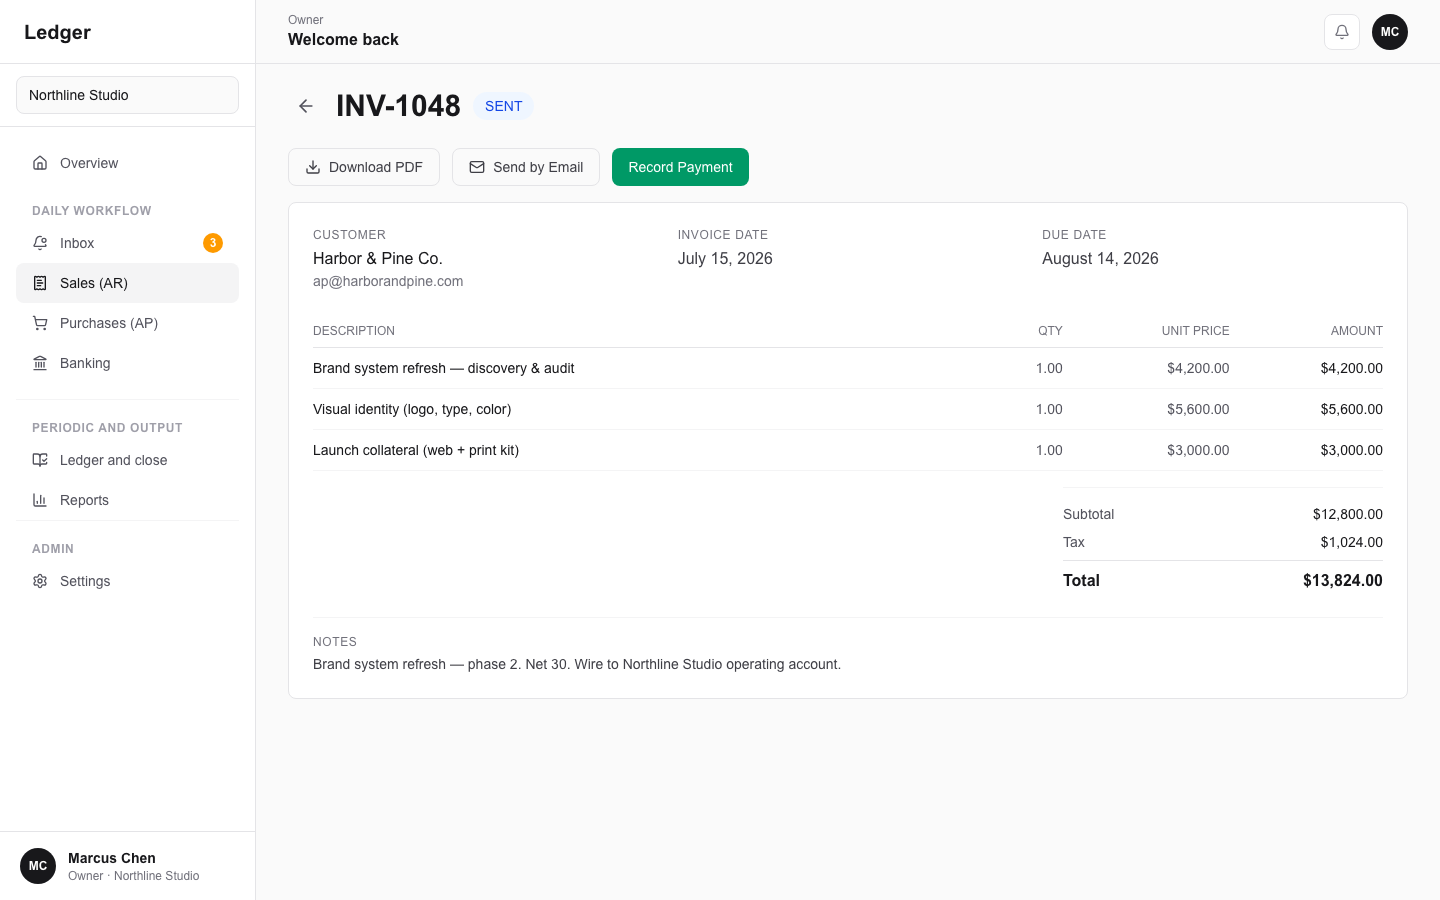
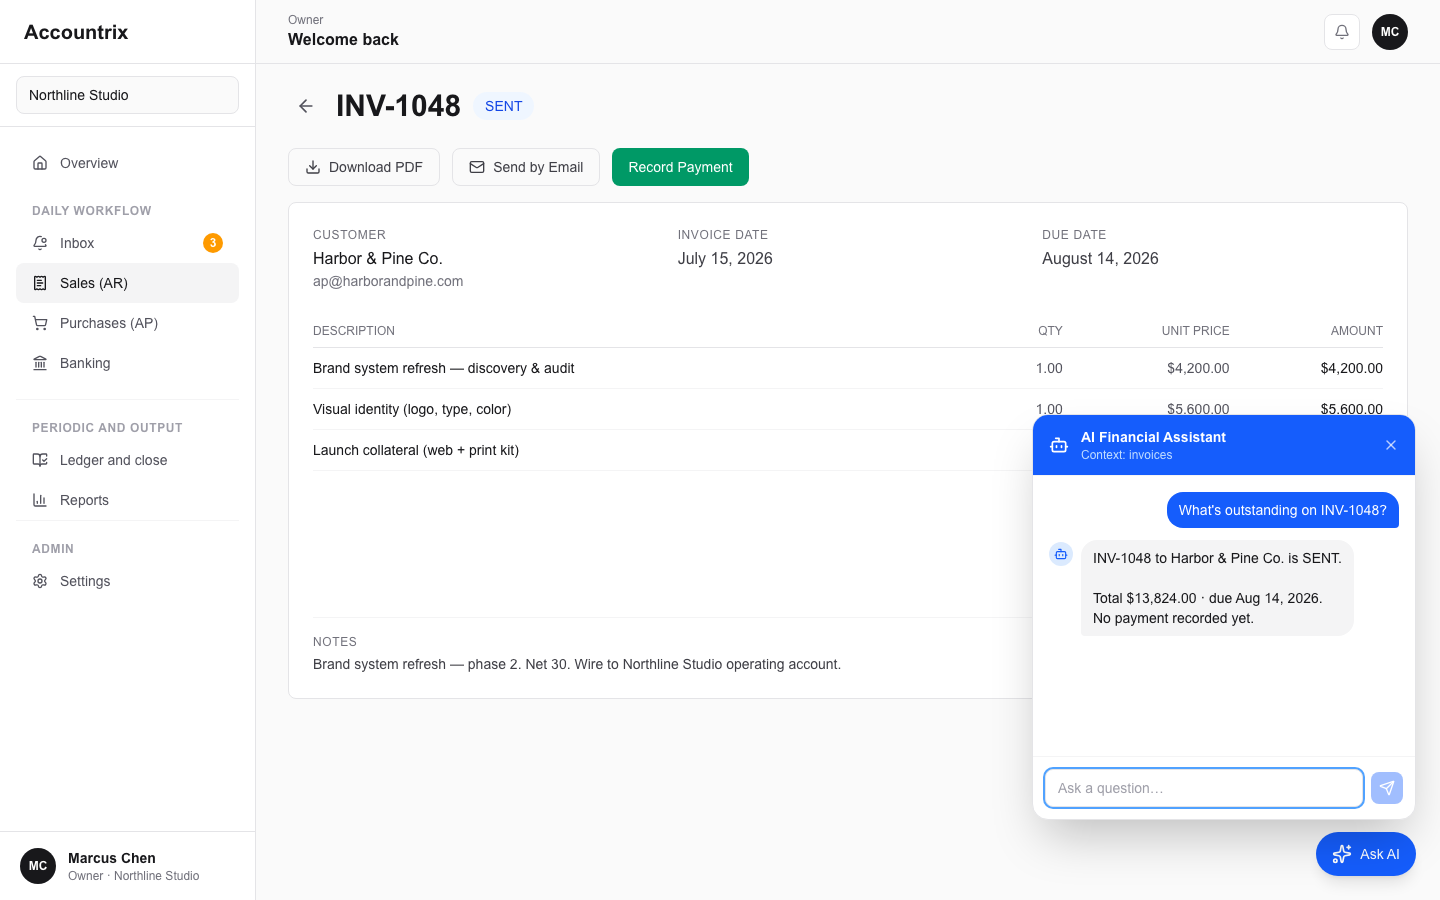
Fix Vercel build and align portfolio branding with Accountrix.
Wrap invite and login search-param usage in Suspense so static generation succeeds, rebrand the app to Accountrix, and show the AI assistant on portfolio preview routes with updated screenshots.

Changed region(s): [[0.7188, 0.4356, 1.0, 0.7156], [0.7188, 0.84, 1.0, 0.9956], [0.0, 0.0311, 0.0938, 0.0622]]

diff --git a/client/app/components/AIChatPanel.tsx b/client/app/components/AIChatPanel.tsx
@@ -5,7 +5,8 @@ import { usePathname } from 'next/navigation';
 import { Bot, Send, X, Loader2, Sparkles } from 'lucide-react';
 import { sendAiMessage } from '@/lib/api';
 import { isAuthenticated } from '@/lib/auth';
-import { hideAppChrome } from '@/lib/public-paths';
+import { hideLiveAiChat, isPreviewPath } from '@/lib/public-paths';
+import { portfolioAiThread } from '@/lib/portfolio-demo-data';
 
 interface Message {
   role: 'user' | 'assistant';
@@ -19,14 +20,28 @@ const SUGGESTIONS = [
   'Am I spending more than last month?',
 ];
 
+function contextLabel(pathname: string): string {
+  if (pathname === '/reports-preview') return 'reports';
+  if (pathname.startsWith('/portfolio-preview/inbox')) return 'inbox';
+  if (pathname.startsWith('/portfolio-preview/invoice')) return 'invoices';
+  return pathname.split('/')[1] || 'overview';
+}
+
 export function AIChatPanel() {
   const pathname = usePathname();
-  const [open, setOpen] = useState(false);
-  const [messages, setMessages] = useState<Message[]>([]);
+  const demo = pathname ? portfolioAiThread(pathname) : null;
+  const [open, setOpen] = useState(Boolean(demo));
+  const [messages, setMessages] = useState<Message[]>(demo?.messages ?? []);
   const [input, setInput] = useState('');
   const [loading, setLoading] = useState(false);
   const bottomRef = useRef<HTMLDivElement>(null);
   const inputRef = useRef<HTMLInputElement>(null);
+
+  useEffect(() => {
+    const next = portfolioAiThread(pathname);
+    setOpen(Boolean(next));
+    setMessages(next?.messages ?? []);
+  }, [pathname]);
 
   useEffect(() => {
     if (open) {
@@ -42,8 +57,15 @@ export function AIChatPanel() {
     setMessages((prev) => [...prev, { role: 'user', content: msg }]);
     setLoading(true);
     try {
+      if (isPreviewPath(pathname)) {
+        setMessages((prev) => [
+          ...prev,
+          { role: 'assistant', content: 'This is a demo workspace. Sign in to ask about live books.' },
+        ]);
+        return;
+      }
       const { reply } = await sendAiMessage(msg, {
-        tab: pathname.split('/')[1] || 'overview',
+        tab: contextLabel(pathname),
         item: pathname,
       });
       setMessages((prev) => [...prev, { role: 'assistant', content: reply }]);
@@ -62,7 +84,7 @@ export function AIChatPanel() {
     }
   }
 
-  if (hideAppChrome(pathname, isAuthenticated())) return null;
+  if (hideLiveAiChat(pathname) || (!isAuthenticated() && !isPreviewPath(pathname))) return null;
 
   return (
     <>
@@ -84,7 +106,7 @@ export function AIChatPanel() {
             <Bot className="h-5 w-5 text-white" />
             <div className="flex-1">
               <p className="text-sm font-semibold text-white">AI Financial Assistant</p>
-              <p className="text-xs text-blue-200">Context: {pathname.split('/')[1] || 'overview'}</p>
+              <p className="text-xs text-blue-200">Context: {contextLabel(pathname)}</p>
             </div>
             <button onClick={() => setOpen(false)} className="text-white/70 hover:text-white" aria-label="Close AI panel">
               <X className="h-4 w-4" />

diff --git a/client/app/invite/page.tsx b/client/app/invite/page.tsx
@@ -1,7 +1,7 @@
 'use client';
 
-import { useEffect, useState } from 'react';
-import { useRouter, useSearchParams } from 'next/navigation';
+import { Suspense, useEffect, useState } from 'react';
+import { useSearchParams } from 'next/navigation';
 import Link from 'next/link';
 import { Loader2, CheckCircle, XCircle } from 'lucide-react';
 import { acceptWorkspaceInvite, fetchWorkspaces } from '@/lib/api';
@@ -9,8 +9,7 @@ import { isAuthenticated, setWorkspaceId } from '@/lib/auth';
 
 type State = 'loading' | 'needs_login' | 'accepting' | 'success' | 'error';
 
-export default function InvitePage() {
-  const router = useRouter();
+function InvitePageContent() {
   const searchParams = useSearchParams();
   const token = searchParams.get('token') ?? '';
 
@@ -32,7 +31,6 @@ export default function InvitePage() {
     setState('accepting');
     acceptWorkspaceInvite(token)
       .then(async () => {
-        // Refresh workspaces and switch to the new one
         try {
           const workspaces = await fetchWorkspaces();
           if (workspaces.length > 0) {
@@ -110,7 +108,6 @@ export default function InvitePage() {
     );
   }
 
-  // error
   return (
     <div className="min-h-screen flex items-center justify-center px-4 bg-zinc-50 dark:bg-zinc-950">
       <div className="w-full max-w-sm bg-white dark:bg-zinc-900 border border-zinc-200 dark:border-zinc-800 rounded-xl p-6 shadow-sm text-center space-y-4">
@@ -122,5 +119,19 @@ export default function InvitePage() {
         </Link>
       </div>
     </div>
+  );
+}
+
+export default function InvitePage() {
+  return (
+    <Suspense
+      fallback={
+        <div className="min-h-screen flex items-center justify-center bg-zinc-50 dark:bg-zinc-950">
+          <Loader2 className="h-6 w-6 animate-spin text-zinc-400" />
+        </div>
+      }
+    >
+      <InvitePageContent />
+    </Suspense>
   );
 }

diff --git a/client/lib/portfolio-demo-data.ts b/client/lib/portfolio-demo-data.ts
@@ -188,3 +188,48 @@ export const PORTFOLIO_INVOICE: Invoice = {
   createdAt: '2026-07-15T16:20:00.000Z',
   updatedAt: '2026-07-16T09:00:00.000Z',
 };
+
+export type PortfolioAiMessage = { role: 'user' | 'assistant'; content: string };
+
+export function portfolioAiThread(pathname: string): { tab: string; messages: PortfolioAiMessage[] } | null {
+  if (pathname === '/reports-preview') {
+    return {
+      tab: 'reports',
+      messages: [
+        { role: 'user', content: 'What was my profit last month?' },
+        {
+          role: 'assistant',
+          content:
+            'Last 30 days at Northline Studio:\n\nRevenue     $88,250\nExpenses    $28,445\nNet income  $59,805\n\nDesign retainers are the largest line at $48,200.',
+        },
+      ],
+    };
+  }
+  if (pathname.startsWith('/portfolio-preview/inbox')) {
+    return {
+      tab: 'inbox',
+      messages: [
+        { role: 'user', content: 'Which receipts still need review?' },
+        {
+          role: 'assistant',
+          content:
+            '3 items are pending:\n\n• WeWork SoHo — $1,200.00 (Office, 96%)\n• Figma — $180.00 (Software, 99%)\n• Delta Air Lines — $486.40 (Travel, 91%)',
+        },
+      ],
+    };
+  }
+  if (pathname.startsWith('/portfolio-preview/invoice')) {
+    return {
+      tab: 'invoices',
+      messages: [
+        { role: 'user', content: "What's outstanding on INV-1048?" },
+        {
+          role: 'assistant',
+          content:
+            'INV-1048 to Harbor & Pine Co. is SENT.\n\nTotal $13,824.00 · due Aug 14, 2026.\nNo payment recorded yet.',
+        },
+      ],
+    };
+  }
+  return null;
+}

diff --git a/client/lib/public-paths.ts b/client/lib/public-paths.ts
@@ -1,15 +1,23 @@
 const AUTH_PUBLIC_PATHS = new Set(['/login', '/signup', '/auth/callback', '/invite']);
 
+export function isPreviewPath(pathname: string): boolean {
+  return pathname === '/reports-preview' || pathname.startsWith('/portfolio-preview');
+}
+
 export function isPublicPath(pathname: string): boolean {
-  if (pathname === '/' || pathname === '/reports-preview') return true;
-  if (pathname.startsWith('/portfolio-preview')) return true;
+  if (pathname === '/' || isPreviewPath(pathname)) return true;
   return AUTH_PUBLIC_PATHS.has(pathname);
 }
 
-/** Hide the live SideNav / profile / AI chrome (preview routes supply their own shell). */
+/** Hide the live SideNav / profile (preview routes supply their own shell). */
 export function hideAppChrome(pathname: string, authenticated: boolean): boolean {
-  if (pathname === '/reports-preview') return true;
-  if (pathname.startsWith('/portfolio-preview')) return true;
+  if (isPreviewPath(pathname)) return true;
   if (pathname === '/' && !authenticated) return true;
+  return AUTH_PUBLIC_PATHS.has(pathname);
+}
+
+/** Hide Ask AI on marketing/auth pages. Preview product shots keep the live chatbot. */
+export function hideLiveAiChat(pathname: string): boolean {
+  if (pathname === '/') return true;
   return AUTH_PUBLIC_PATHS.has(pathname);
 }

diff --git a/client/app/components/MarketingLanding.tsx b/client/app/components/MarketingLanding.tsx
@@ -1,13 +1,12 @@
 import Link from 'next/link';
 import { ArrowRight, BookOpenCheck, Inbox, Landmark, ShieldCheck } from 'lucide-react';
+import { PRODUCT_NAME } from '@/lib/brand';
 
 export function MarketingLanding() {
   return (
     <main className="min-h-dvh bg-zinc-50 text-zinc-950" style={{ colorScheme: 'light' }}>
       <header className="mx-auto flex max-w-7xl items-center justify-between px-6 py-5">
-        <p className="text-xl font-bold tracking-tight">
-          Ledger<span className="text-blue-600">.</span>
-        </p>
+        <p className="text-xl font-bold tracking-tight">{PRODUCT_NAME}</p>
         <div className="flex gap-2">
           <Link href="/login" className="inline-flex h-11 items-center rounded-xl px-4 text-sm font-semibold text-zinc-700 hover:bg-zinc-100">
             Sign in
@@ -55,7 +54,7 @@ export function MarketingLanding() {
 
       <section className="border-y border-zinc-200 bg-white py-14">
         <div className="mx-auto max-w-7xl px-6">
-          <h2 className="text-2xl font-bold">How Ledger works</h2>
+          <h2 className="text-2xl font-bold">How {PRODUCT_NAME} works</h2>
           <div className="mt-7 grid gap-5 md:grid-cols-3">
             {[
               ['1', 'Inbox first', 'Receipts and quick entries land in one review queue.'],

diff --git a/client/app/components/SideNav.tsx b/client/app/components/SideNav.tsx
@@ -14,6 +14,7 @@ import { createWorkspace, fetchWorkspaces, getReceipts, inviteWorkspaceMember, t
 import { getCurrentUser, getWorkspaceId, isAuthenticated, setWorkspaceId } from '@/lib/auth';
 import { navigationClusters, type NavigationItem } from '@/lib/navigation';
 import { hideAppChrome } from '@/lib/public-paths';
+import { PRODUCT_NAME } from '@/lib/brand';
 
 /* ── Reusable modal dialog ─────────────────────────────────────────────── */
 function Modal({
@@ -237,7 +238,7 @@ export default function SideNav() {
         <div className="flex min-h-0 flex-1 flex-col">
           {/* Logo/Brand */}
           <div className="h-16 flex items-center px-6 border-b border-zinc-200 dark:border-zinc-800 flex-shrink-0">
-            <h1 className="text-xl font-semibold text-zinc-900 dark:text-zinc-50">Accounting</h1>
+            <h1 className="text-xl font-semibold text-zinc-900 dark:text-zinc-50">{PRODUCT_NAME}</h1>
           </div>
 
           <div className="px-4 py-4 border-b border-zinc-200 dark:border-zinc-800 space-y-2">

diff --git a/client/app/components/PortfolioAppShell.tsx b/client/app/components/PortfolioAppShell.tsx
@@ -5,6 +5,7 @@ import { Home, Bell } from 'lucide-react';
 import { cn } from '@/lib/utils';
 import { navigationClusters } from '@/lib/navigation';
 import type { PortfolioProfile } from '@/lib/portfolio-demo-data';
+import { PRODUCT_NAME } from '@/lib/brand';
 
 function isActivePath(pathname: string, href: string) {
   return pathname === href || (href !== '/' && pathname.startsWith(href));
@@ -28,7 +29,7 @@ export function PortfolioAppShell({
       <aside className="fixed inset-y-0 left-0 z-30 hidden h-svh w-64 flex-col border-r border-zinc-200 bg-white lg:flex">
         <div className="flex min-h-0 flex-1 flex-col">
           <div className="flex h-16 shrink-0 items-center border-b border-zinc-200 px-6">
-            <p className="text-xl font-semibold">Ledger</p>
+            <p className="text-xl font-semibold">{PRODUCT_NAME}</p>
           </div>
           <div className="shrink-0 border-b border-zinc-200 px-4 py-3">
             <div className="rounded-lg border border-zinc-200 bg-zinc-50 px-3 py-2 text-sm font-medium">{workspaceName}</div>

diff --git a/client/app/login/page.tsx b/client/app/login/page.tsx
@@ -1,13 +1,13 @@
 'use client';
 
 import Link from 'next/link';
+import { Suspense, useState } from 'react';
 import { useRouter, useSearchParams } from 'next/navigation';
-import { useState } from 'react';
 import { Loader2 } from 'lucide-react';
 import { API_BASE_URL, login } from '@/lib/api';
 import { setSession, setWorkspaceId } from '@/lib/auth';
 
-export default function LoginPage() {
+function LoginPageContent() {
   const router = useRouter();
   const searchParams = useSearchParams();
   const redirect = searchParams.get('redirect') || '/';
@@ -73,3 +73,16 @@ export default function LoginPage() {
   );
 }
 
+export default function LoginPage() {
+  return (
+    <Suspense
+      fallback={
+        <div className="min-h-screen flex items-center justify-center bg-zinc-50 dark:bg-zinc-950">
+          <Loader2 className="h-6 w-6 animate-spin text-zinc-400" />
+        </div>
+      }
+    >
+      <LoginPageContent />
+    </Suspense>
+  );
+}

diff --git a/client/app/layout.tsx b/client/app/layout.tsx
@@ -6,6 +6,7 @@ import { ProfileButton } from "./components/ProfileButton";
 import { ToastProvider } from "./components/Toast";
 import { AIChatPanel } from "./components/AIChatPanel";
 import { AuthGate } from "./components/AuthGate";
+import { PRODUCT_NAME } from "@/lib/brand";
 
 const geistSans = Geist({
   variable: "--font-geist-sans",
@@ -18,8 +19,8 @@ const geistMono = Geist_Mono({
 });
 
 export const metadata: Metadata = {
-  title: "Accounting System",
-  description: "Modern bookkeeping and accounting system",
+  title: PRODUCT_NAME,
+  description: "Modern bookkeeping and accounting for teams",
 };
 
 export default function RootLayout({

diff --git a/client/lib/brand.ts b/client/lib/brand.ts
@@ -1,0 +1,1 @@
+export const PRODUCT_NAME = 'Accountrix';
